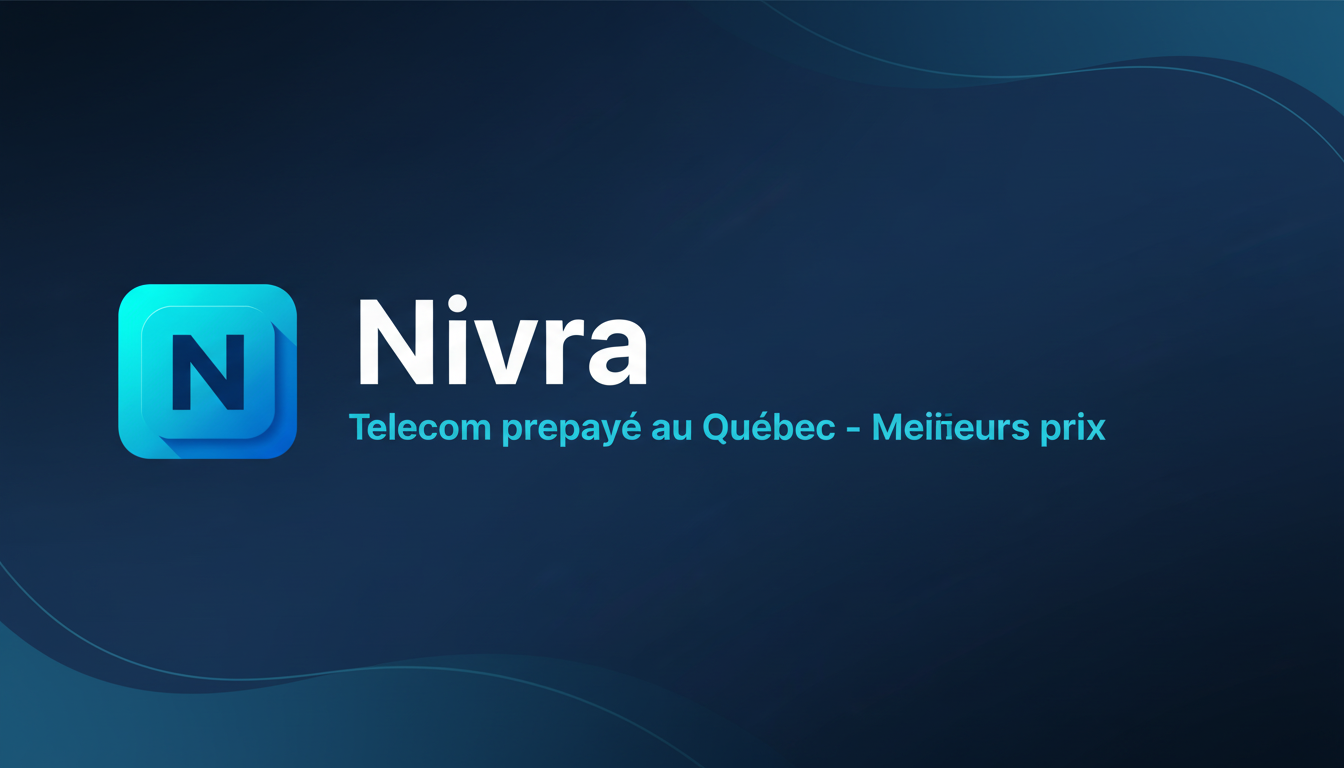
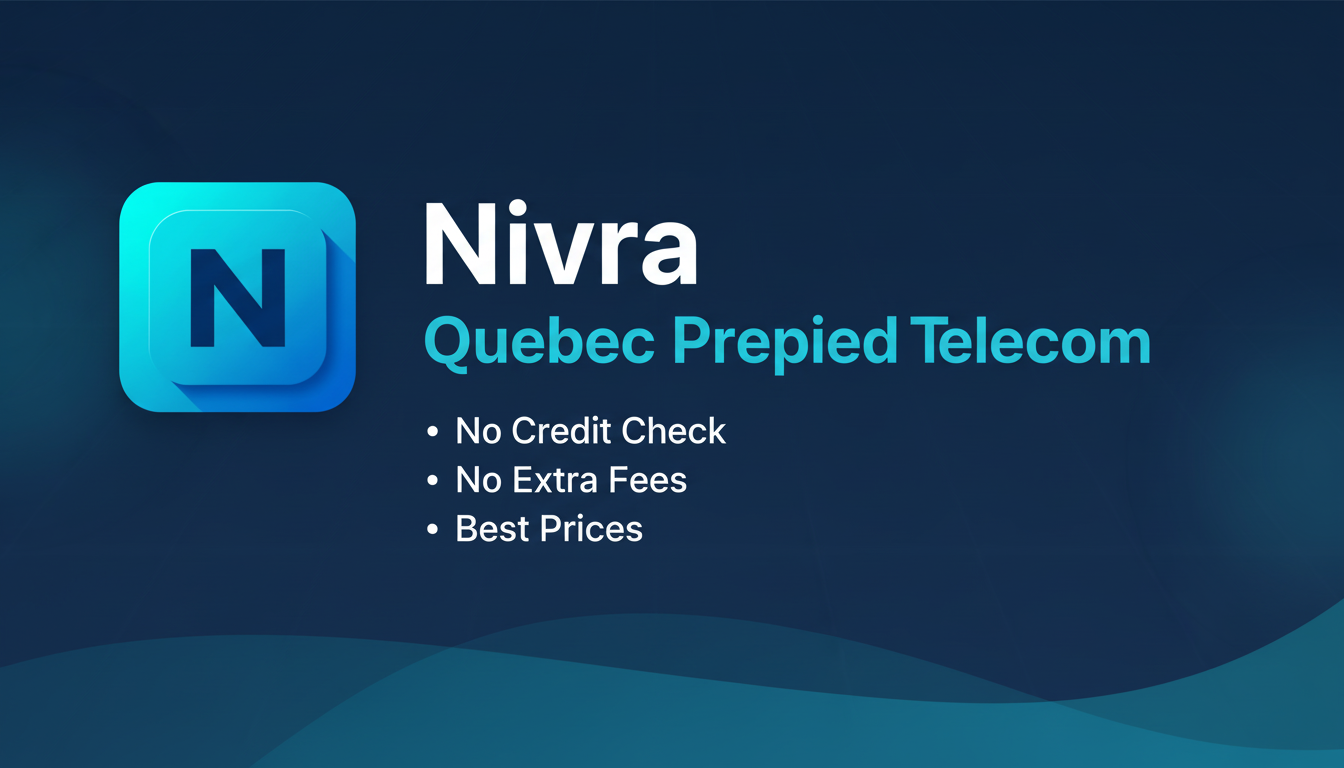
Changes

diff --git a/index.html b/index.html
@@ -18,8 +18,8 @@
     <!-- Inter Font - Professional Sans-Serif -->
     <link href="https://fonts.googleapis.com/css2?family=Inter:wght@400;500;600;700&display=swap" rel="stylesheet" />
 
-    <meta property="og:title" content="Nivra | Télécom prépayé au Québec" />
-    <meta property="og:description" content="Services de télécommunications prépayés au Québec. Meilleurs prix pour Internet, Mobile et TV." />
+    <meta property="og:title" content="Nivra | Quebec Prepaid Telecom" />
+    <meta property="og:description" content="Quebec prepaid telecom carrier. No credit check, no extra fees, best prices for Internet, Mobile and TV." />
     <meta property="og:type" content="website" />
     <meta property="og:image" content="/og-image.png" />
 
